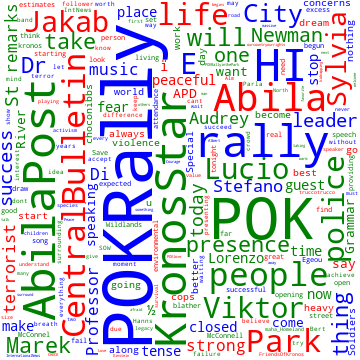
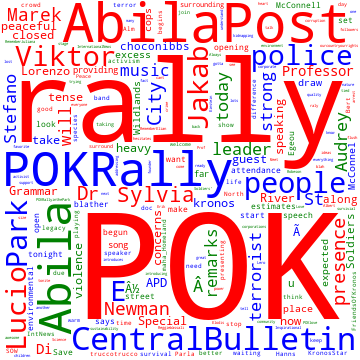
changes to bar chart and word cloud

diff --git a/js/wordCloud.js b/js/wordCloud.js
@@ -1,28 +1,11 @@
-document.addEventListener('DOMContentLoaded', function () {
+let start_time = 20140123183100
+let end_time = 20140123183100
 
-    word_svg1 = d3.select('#word_cloud_svg_1');
-    word_svg2 = d3.select('#word_cloud_svg_2');
-    word_svg3 = d3.select('#word_cloud_svg_3');
+function loadWordCloudImage(start, end) {
 
-
-    Promise.all([d3.csv('data/csv-1700-1830.csv', (d) => {
-        return {
-            message: d.message,
-            majorEvent: d.major_event,
-            sentiment: d.sentiment
-        };
-    })])
-        .then(function (values) {
-            console.log('loaded dataset');
-            data1 = values[0];
-
-            loadWordCloudImage()
-
-        });
-
-});
-
-function loadWordCloudImage() {
+    var word_svg1 = d3.select('#word_cloud_svg_1');
+    var word_svg2 = d3.select('#word_cloud_svg_2');
+    var word_svg3 = d3.select('#word_cloud_svg_3');
 
     logJSONData();
 
@@ -36,8 +19,12 @@ function loadWordCloudImage() {
 
         console.log(checked)
 
-        start_time = 20140123184900;
-        end_time = 20140123192843;
+        if (start != null) {
+            start_time = start;
+        }
+        if (end != null) {
+           end_time = end;
+        }
         const url = new URL("http://127.0.0.1:80/wordcloud");
         url.searchParams.append("param1", start_time);
         url.searchParams.append("param2", end_time);
@@ -51,23 +38,35 @@ function loadWordCloudImage() {
                 mode: "no-cors"
             });
 
-            word_svg1.append("image")
-                .attr('xlink:href', "wc_images/wc-1.png")
-                .attr("width", 360)
-                .attr("height", 360)
+            const data = await response; // parse response as JSON
 
-            word_svg2.append("image")
-                .attr('xlink:href', "wc_images/wc-2.png")
-                .attr("width", 360)
-                .attr("height", 360)
-
-            word_svg3.append("image")
-                .attr('xlink:href', "wc_images/wc-3.png")
-                .attr("width", 360)
-                .attr("height", 360)
+            // if (response.status === 200) {
+                console.log("response ok")
+            var today = new Date();
+            var time = today.getHours() + ":" + today.getMinutes() + ":" + today.getSeconds();
+            console.log(time)
+                setImages()
+            // } else {
+            //     console.log("response not ok")
+            //     word_svg1.append("image")
+            //         .attr('xlink:href', "wc_images/wc-1.png")
+            //         .attr("width", 360)
+            //         .attr("height", 360)
+            //
+            //     word_svg2.append("image")
+            //         .attr('xlink:href', "wc_images/wc-2.png")
+            //         .attr("width", 360)
+            //         .attr("height", 360)
+            //
+            //     word_svg3.append("image")
+            //         .attr('xlink:href', "wc_images/wc-3.png")
+            //         .attr("width", 360)
+            //         .attr("height", 360)
+            // }
 
         } catch (error) {
-            console.log(`Connection refused error: ${error.message}`);
+            console.log(error)
+            console.log("response error")
 
             word_svg1.append("image")
                 .attr('xlink:href', "wc_images/wc-1.png")
@@ -85,6 +84,23 @@ function loadWordCloudImage() {
                 .attr("height", 360)
         }
 
+
+        function setImages(data) {
+                word_svg1.append("image")
+                    .attr('xlink:href', "wc_images/wc1.png")
+                    .attr("width", 360)
+                    .attr("height", 360)
+
+                word_svg2.append("image")
+                    .attr('xlink:href', "wc_images/wc2.png")
+                    .attr("width", 360)
+                    .attr("height", 360)
+
+                word_svg3.append("image")
+                    .attr('xlink:href', "wc_images/wc3.png")
+                    .attr("width", 360)
+                    .attr("height", 360)
+        }
     }
 
 }

diff --git a/js/barchart.js b/js/barchart.js
@@ -63,9 +63,16 @@ function drawBars(list1, list2, list3) {
     bar_svg2 = d3.select('#bar_chart_svg_2');
     bar_svg3 = d3.select('#bar_chart_svg_3');
 
-    bar_data1 = list1
-    bar_data2 = list2
-    bar_data3 = list3
+    if (list1 != null ) {
+        bar_data1 = list1
+    }
+
+    if (list2 != null ) {
+        bar_data2 = list2
+    }
+    if (list3 != null ) {
+        bar_data3 = list3
+    }
 
 
     // bar_data1.map(d => {
@@ -96,7 +103,7 @@ function drawBars(list1, list2, list3) {
     if (selectedValue === "tag") {
         drawTagsBarChart(bar_data1, bar_data2, bar_data3);
     } else {
-        drawBarChart(bar_data1, bar_data2, bar_data3);
+        drawBarChart();
     }
 }
 
@@ -105,9 +112,9 @@ function drawBarChart(list1, list2, list3) {
     const checked = d3.selectAll("input[type='checkbox']:checked")
         .nodes()
         .map(checkbox => checkbox.value);
-    filtered_bar_data1 = list1.filter(c => checked.includes(c.major_event));
-    filtered_bar_data2 = list2.filter(c => checked.includes(c.major_event));
-    filtered_bar_data3 = list3.filter(c => checked.includes(c.major_event));
+    filtered_bar_data1 = bar_data1.filter(c => checked.includes(c.major_event));
+    filtered_bar_data2 = bar_data2.filter(c => checked.includes(c.major_event));
+    filtered_bar_data3 = bar_data3.filter(c => checked.includes(c.major_event));
 
     drawEachBarChart(filtered_bar_data1, bar_svg1)
     drawEachBarChart(filtered_bar_data2, bar_svg2)

diff --git a/js/main.js b/js/main.js
@@ -87,8 +87,8 @@ function drawbeeswarm1(dataset) {
     function triggerMultipleFunctions() {
         filter();
         // drawPieChart();
-        // drawBars();
-        loadWordCloudImage();
+        drawBars(null, null, null);
+        loadWordCloudImage(null, null);
     }
 
     function draw() {
@@ -244,7 +244,11 @@ function drawbeeswarm1(dataset) {
                 });
                 console.log(filtereddata3);
                 drawPieChart(filtereddata1, filtereddata2, filtereddata3)
+
+                const formatDate = d3.timeFormat("%Y%m%d%H%M%S");
+
                 drawBars(filtereddata1, filtereddata2, filtereddata3)
+                loadWordCloudImage(formatDate(time_line[0]), formatDate(time_line[1]))
                 //call piechart function
                 //call word cloud
                 //call bar chart

diff --git a/wc_images/dv_project.py b/wc_images/dv_project.py
@@ -7,6 +7,7 @@
 import pandas as pd
 from wordcloud import WordCloud
 import matplotlib
+import os
 
 matplotlib.use('Agg')
 
@@ -45,6 +46,8 @@ def my_webservice():
         filter_values.append('pok_rally')
 
     get_cloud(start_time, end_time, filter_values)
+
+    print("returning before saving")
     return resp
 
 
@@ -52,35 +55,42 @@ def get_cloud(start, end, filter):
     initial = 20140123170000
     final = 20140123213445
 
-    list1 = pd.read_csv("/Users/sai/projects/Abhishek-Dileep-Naga-Nagaraju-Sai-Sumedha/data/csv-1700-1830.csv",
+    df = pd.read_csv("/Users/sai/projects/Abhishek-Dileep-Naga-Nagaraju-Sai-Sumedha/data/final_dataset.csv",
                      encoding='unicode_escape')
 
-    # list1 = [d for d in df if initial <= d['date'] <= start]
-    list2 = pd.read_csv("/Users/sai/projects/Abhishek-Dileep-Naga-Nagaraju-Sai-Sumedha/data/csv-1831-2000.csv",
-                     encoding='unicode_escape')
+    filter_loc = df.iloc
 
-    # list2 = [d for d in df if start <= d['date'] <= end]
-    list3 = pd.read_csv("/Users/sai/projects/Abhishek-Dileep-Naga-Nagaraju-Sai-Sumedha/data/csv-2001-2131.csv",
-                     encoding='unicode_escape')
+    list1 = [d for d in filter_loc if initial <= int(d['date']) <= int(start)]
 
-    # list3 = [d for d in df if end <= d['date'] <= final]
-    # list3 = pd.read_csv("/Users/sai/projects/Abhishek-Dileep-Naga-Nagaraju-Sai-Sumedha/data/final_dataset.csv",
-    #                  encoding='unicode_escape')
+    list2 = [d for d in filter_loc if int(start) <= int(d['date']) <= int(end)]
 
-    print(filter)
+    list3 = [d for d in filter_loc if int(end) <= int(d['date']) <= final]
 
-    generate_cloud(list1, "wc-1", filter)
-    generate_cloud(list2, "wc-2", filter)
-    generate_cloud(list3, "wc-3", filter)
+    generate_cloud(list1, "wc1", filter)
+    generate_cloud(list2, "wc2", filter)
+    generate_cloud(list3, "wc3", filter)
 
 
 def generate_cloud(df, name, filter):
-    filtered_df = df.loc[df['major_event'].isin(filter)]
+    path = "wc_images"
 
-    text = " ".join(filtered_df["message"].tolist())
-    categories = df["major_event"].tolist()
+    file_path = os.path.join(path, name)
 
-    clean_text = text.replace('RT', '')
+    if os.path.exists(file_path):
+        os.remove(file_path)
+        print(f"{name} deleted successfully")
+    else:
+        print(f"{name} does not exist")
+
+    filtered_df = [obj for obj in df if obj['major_event'] in filter]
+
+    pattern = r'(@\w+|#\w+|\bRT\b|\bKronosStar\b|\b#POKRally\b|\b#Kronos\b)'
+
+    text = " ".join(d['message'] for d in filtered_df)
+    # categories = df["major_event"].tolist()
+
+    clean_t = text.replace('RT', '')
+    clean_text = clean_t.replace(pattern, '')
     colors = ["red", "green", "blue"]
     cmap = ListedColormap(colors)
 
@@ -92,5 +102,6 @@ def generate_cloud(df, name, filter):
     plt.show()
 
     wordcloud.to_file('wc_images/{}.png'.format(name))
+    print("returning after saving")
 
     # flask --app wc_images/dv_project.py run --host=0.0.0.0 --port=80
